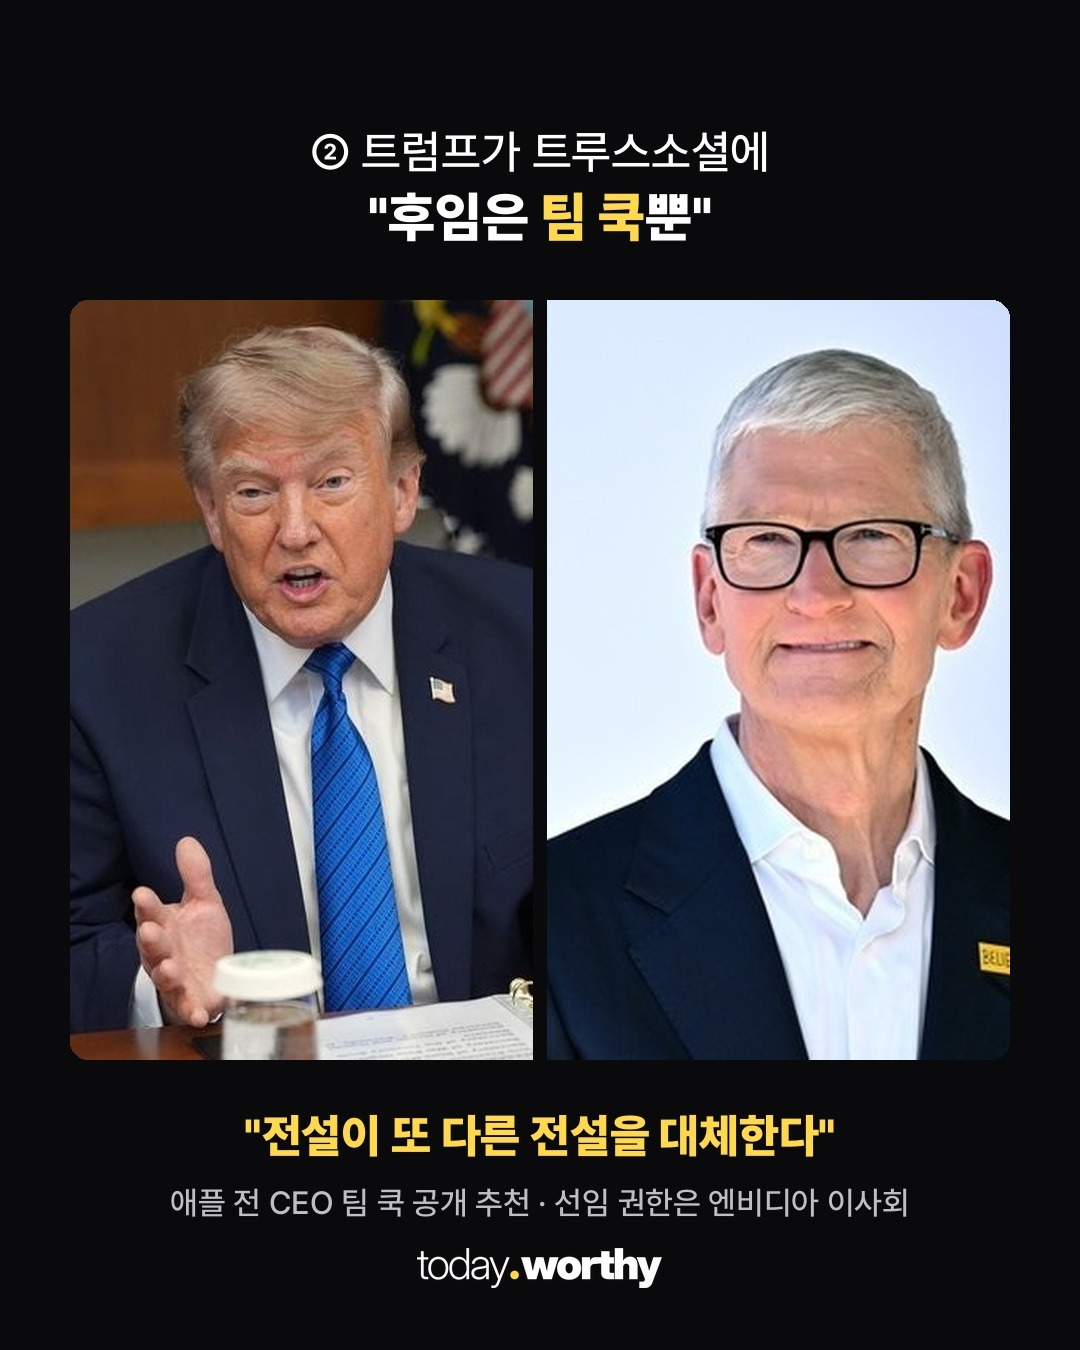
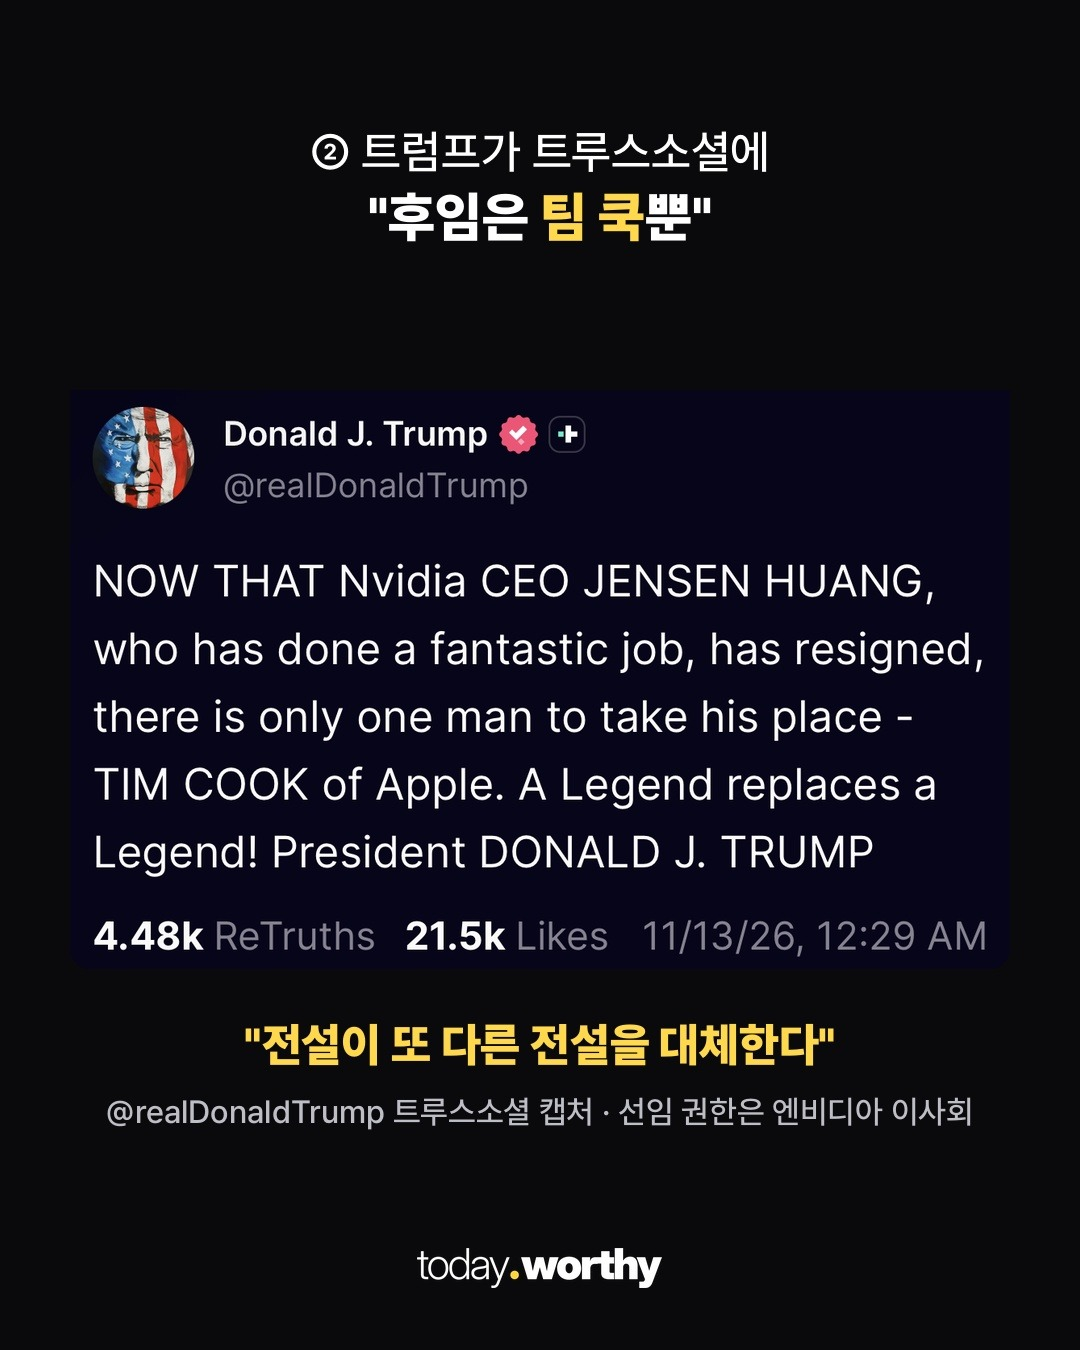
jensen24h: 트루스소셜 캡처 반영, 즉시 게시
Claude-Session: https://claude.ai/code/session_01FGsw5UC8cBuW8YXcbEvhAR

diff --git a/media/20261113-jensen24h/build_frames.py b/media/20261113-jensen24h/build_frames.py
@@ -13,11 +13,11 @@ frame(("① 물러난 그날, 로이터 보도", "'세 번째' 여성 의혹"), 
       "엔비디아 사내 또 다른 직원과 내연 관계", sub="앨리스 황·킴벌리 파월 부사장에 이어 세 번째 · 엔비디아는 논평 거부",
       focus=(.6, .35)).save(J / "f02.jpg", quality=95)
 
-# 트럼프 + 팀 쿡 나란히
-a = fit(J / "press12.jpg", 463, 760, (.45, .3)); b = fit(J / "cook_crop.jpg", 463, 760, (.5, .3))
-pair = Image.new("RGB", (940, 760), (10, 10, 12)); pair.paste(a, (0, 0)); pair.paste(b, (477, 0))
-frame(("② 트럼프가 트루스소셜에", "\"후임은 '팀 쿡'뿐\""), pair,
-      "\"전설이 또 다른 전설을 대체한다\"", sub="애플 전 CEO 팀 쿡 공개 추천 · 선임 권한은 엔비디아 이사회").save(J / "f03.jpg", quality=95)
+# 트루스소셜 실제 캡처(사용자 제공)
+cap = Image.open(J / "truth_cap.png").convert("RGB"); cap = cap.resize((940, round(cap.height * 940 / cap.width)), Image.LANCZOS)
+combo = Image.new("RGB", (940, cap.height + 90), (10, 10, 12)); combo.paste(cap, (0, 90))
+frame(("② 트럼프가 트루스소셜에", "\"후임은 '팀 쿡'뿐\""), combo,
+      "\"전설이 또 다른 전설을 대체한다\"", sub="@realDonaldTrump 트루스소셜 캡처 · 선임 권한은 엔비디아 이사회").save(J / "f03.jpg", quality=95)
 
 frame(("③ 물러나도 끝이 아니다", "18일 '선서'하고 증언대에"), J / "press04.jpg",
       "\"안 나오면 소환장\" — 하원 외교위원장", sub="상원은 러트닉 상무장관까지 출석 요구 · 백악관은 교체 논의(로이터)",
